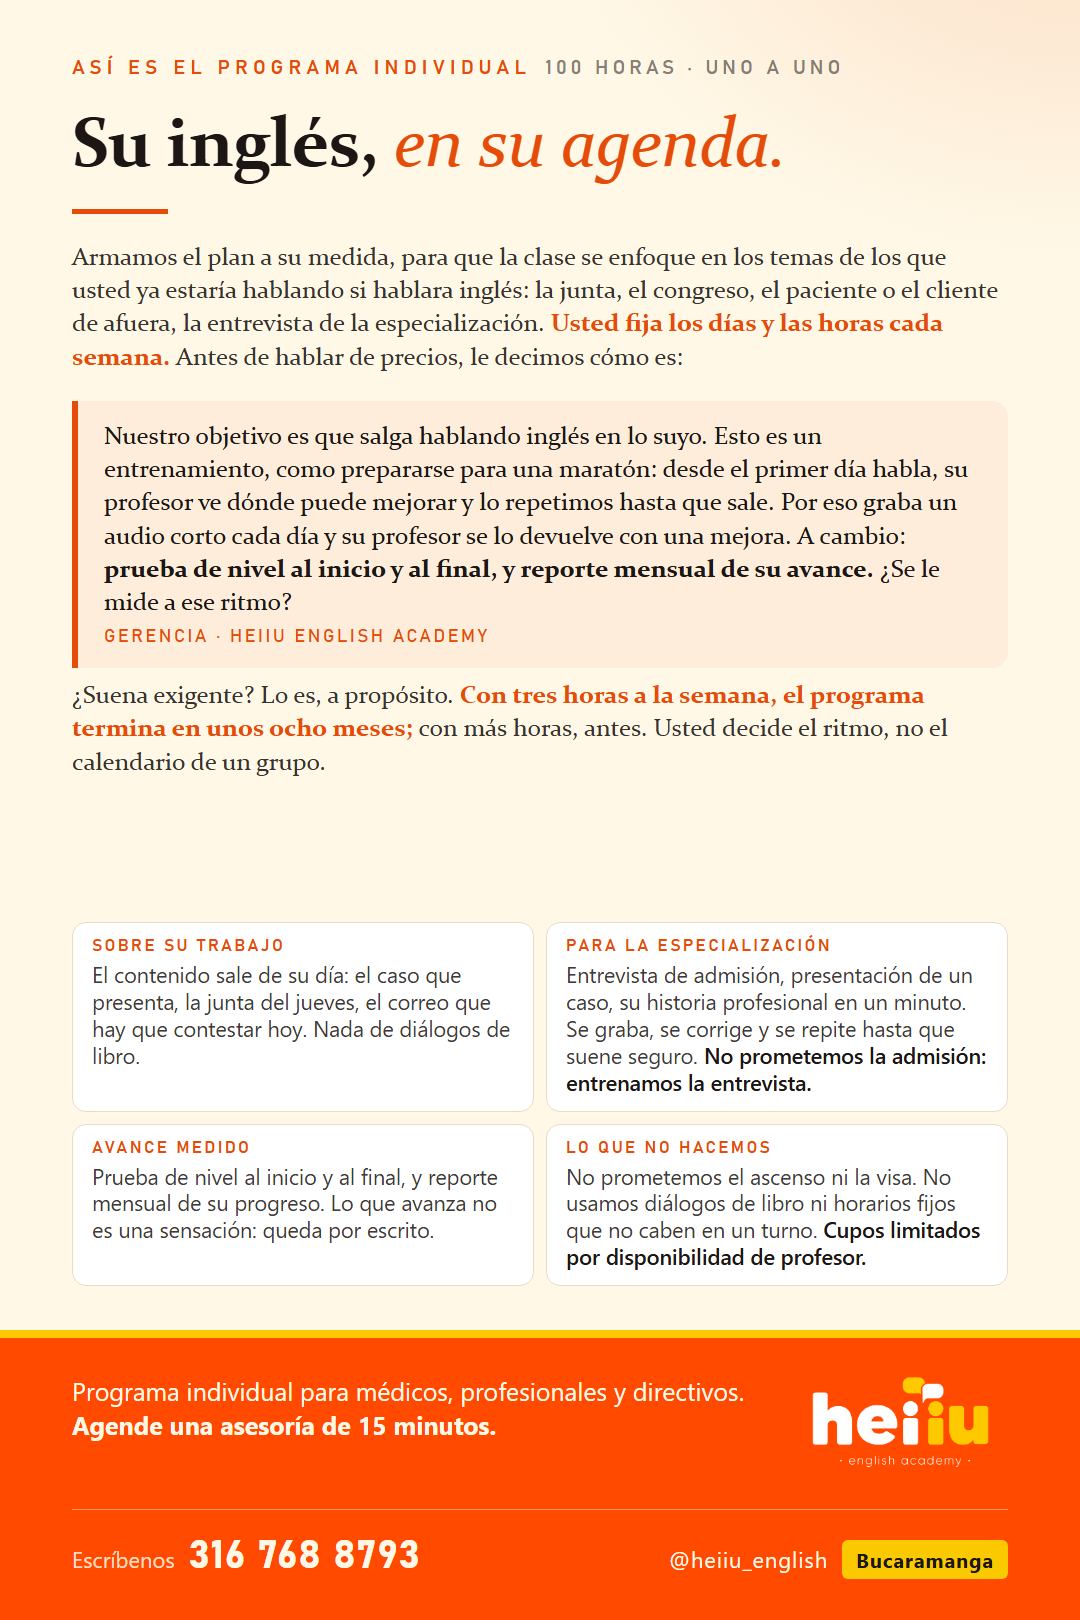
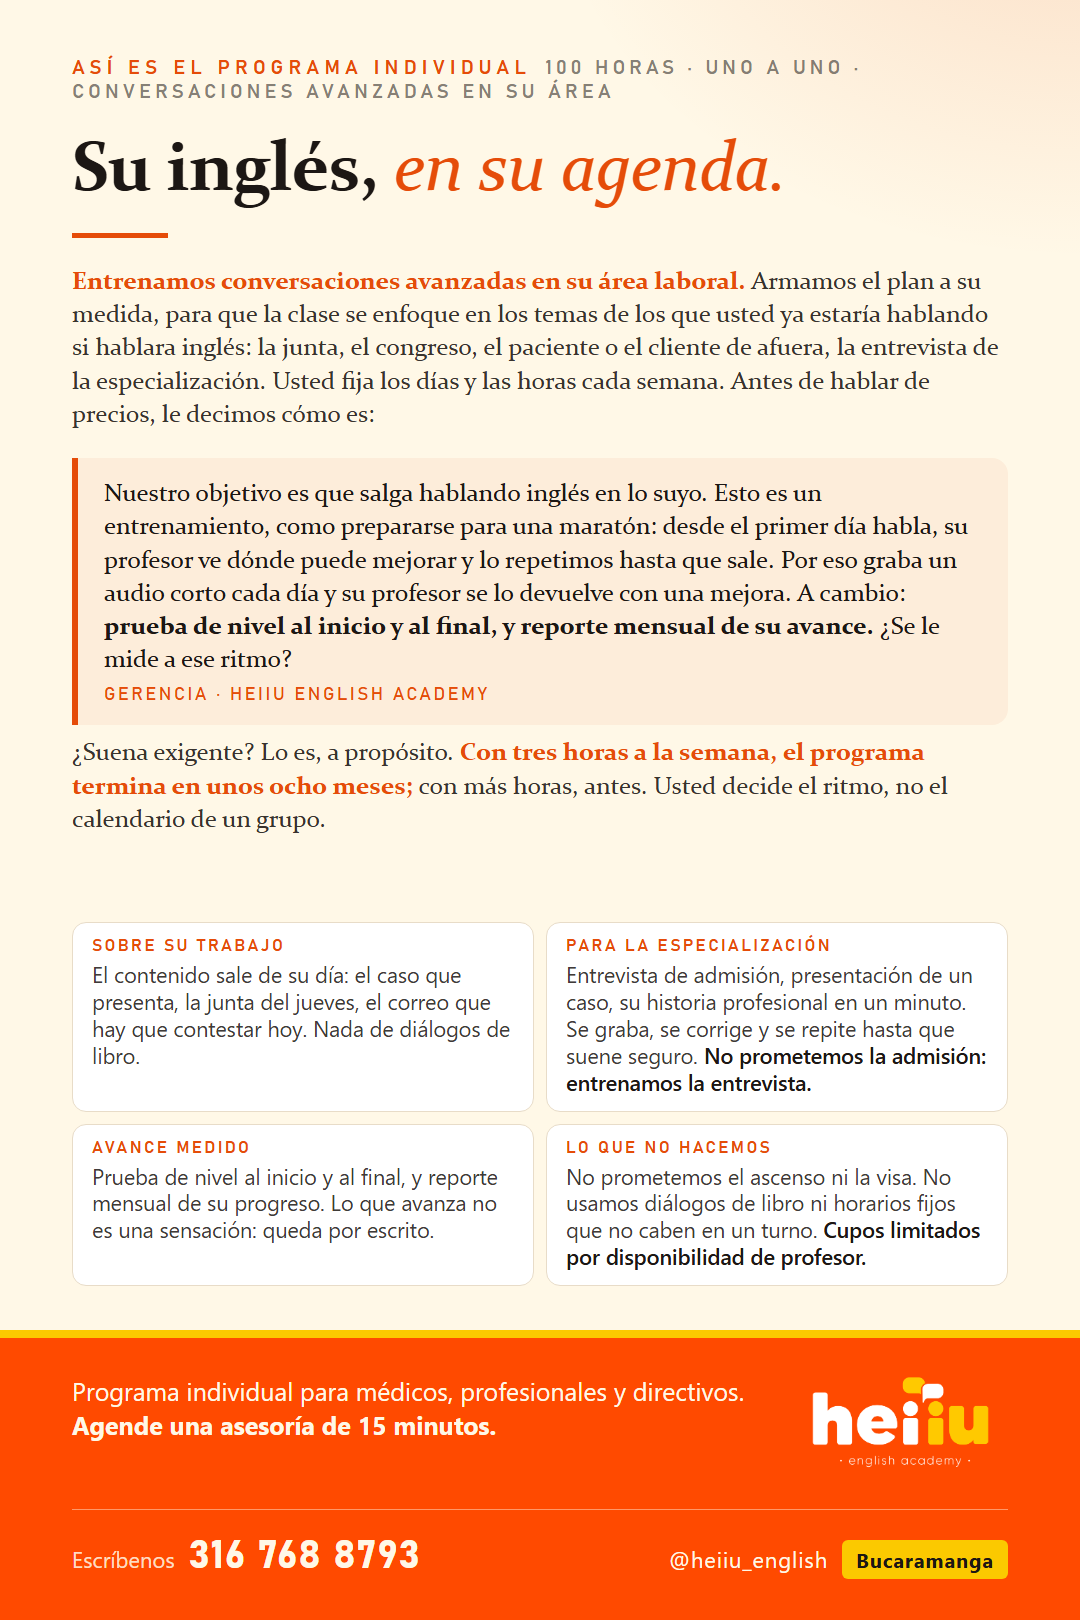
Pieza medicos y directivos: 'entrenamos conversaciones avanzadas en su area laboral' en el respaldo

Changed region(s): [[0.0611, 0.0309, 0.9167, 0.5247], [0.4278, 0.0309, 0.4583, 0.0617]]

diff --git a/generadores/comercial/gen_piezas_conciencia.py b/generadores/comercial/gen_piezas_conciencia.py
@@ -197,10 +197,10 @@ PIEZAS = {
         band='Dale la vuelta a la hoja: así es el programa individual y <b>cómo se arma sobre su agenda</b>.',
         band_px=250),
     'MEDICOS_DIRECTIVOS_RESPALDO': dict(
-        compact=True, theme='light', label='ASÍ ES EL PROGRAMA INDIVIDUAL', sub='100 HORAS · UNO A UNO',
+        compact=True, theme='light', label='ASÍ ES EL PROGRAMA INDIVIDUAL', sub='100 HORAS · UNO A UNO · CONVERSACIONES AVANZADAS EN SU ÁREA',
         h1='Su inglés, <em>en su agenda.</em>',
-        intro=('Armamos el plan a su medida, para que la clase se enfoque en los temas de los que usted ya estaría hablando si hablara inglés: la junta, el congreso, el paciente o el cliente de afuera, '
-               'la entrevista de la especialización. <b>Usted fija los días y las horas cada semana.</b> Antes de hablar de precios, le decimos cómo es:'),
+        intro=('<b>Entrenamos conversaciones avanzadas en su área laboral.</b> Armamos el plan a su medida, para que la clase se enfoque en los temas de los que usted ya estaría hablando si hablara inglés: la junta, el congreso, el paciente o el cliente de afuera, '
+               'la entrevista de la especialización. Usted fija los días y las horas cada semana. Antes de hablar de precios, le decimos cómo es:'),
         quote=('Nuestro objetivo es que salga hablando inglés en lo suyo. Esto es un entrenamiento, como prepararse para una maratón: desde el primer día habla, su profesor ve dónde puede mejorar y lo repetimos hasta que sale. '
                'Por eso graba un audio corto cada día y su profesor se lo devuelve con una mejora. A cambio: <b>prueba de nivel al inicio y al final, y reporte mensual de su avance.</b> ¿Se le mide a ese ritmo?'),
         cite='GERENCIA · HEIIU ENGLISH ACADEMY',
